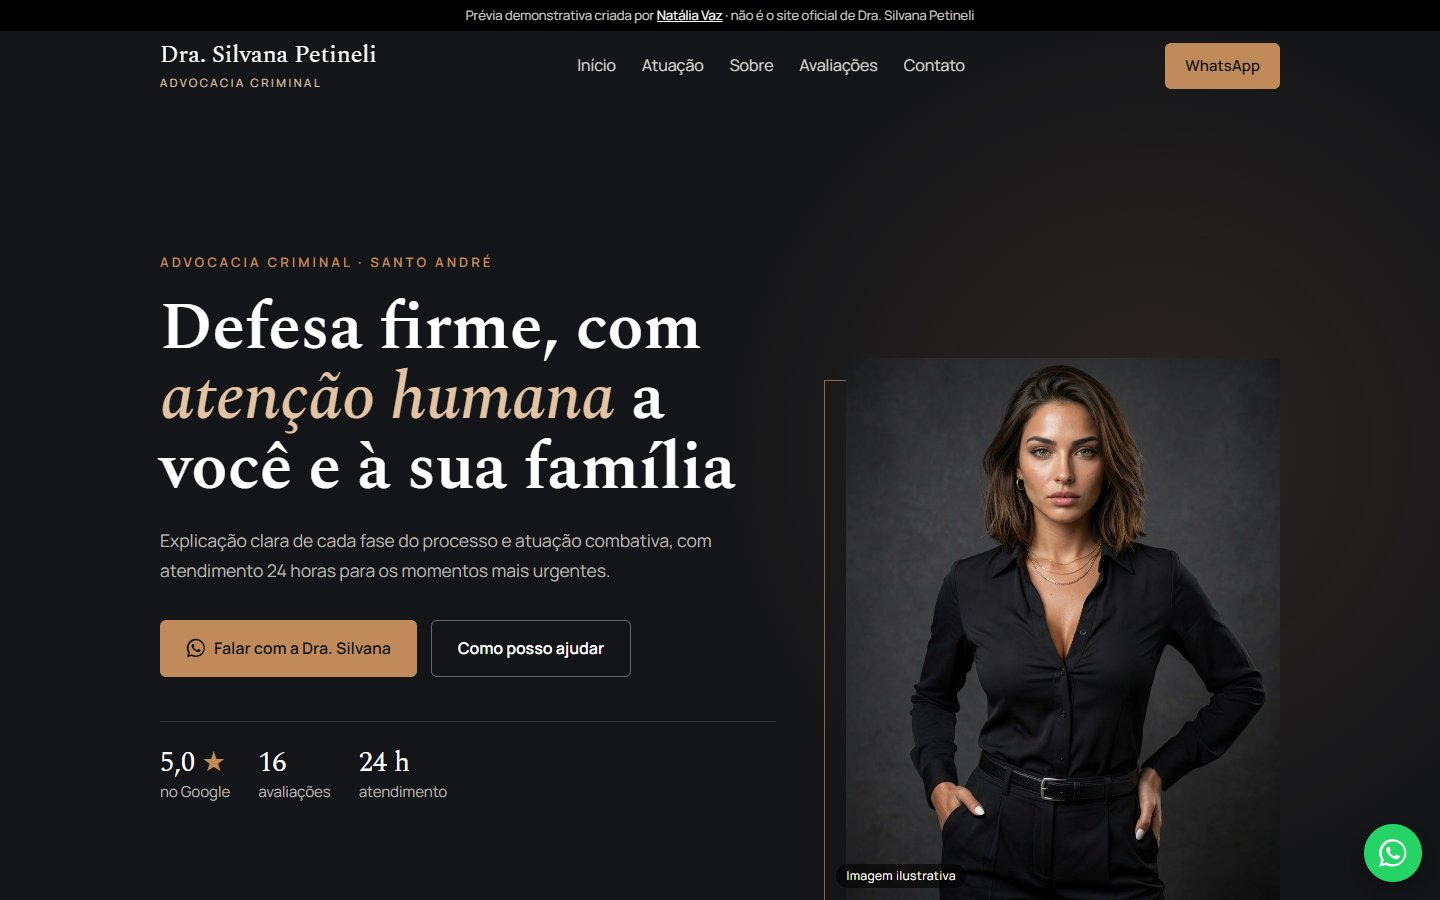
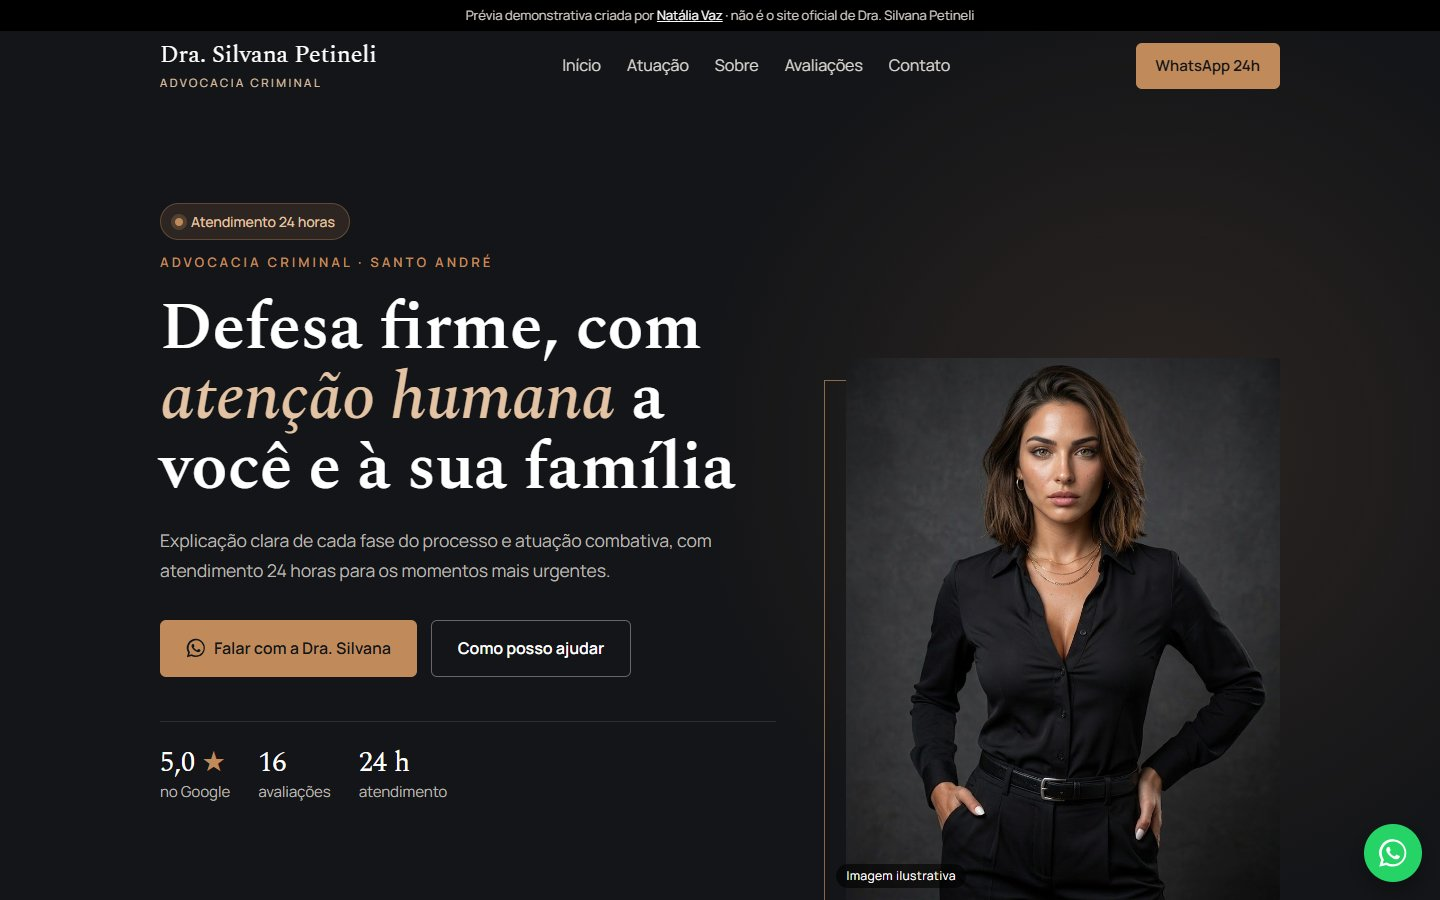
silvana-petineli: botão WhatsApp 24h e selo de atendimento 24 horas

Changed region(s): [[0.375, 0.0622, 0.6875, 0.0933], [0.0938, 0.2178, 0.25, 0.28], [0.7812, 0.0311, 0.875, 0.1244]]

diff --git a/silvana-petineli/index.html b/silvana-petineli/index.html
@@ -250,6 +250,8 @@ html{--gap-secao:clamp(64px,8vw,96px)}
 .hero h1,.head h2,.about h2,.card h3,.info h3{font-weight:600}
 .hero h1 i{font-weight:500}
 .hero{min-height:100vh;display:flex;align-items:flex-end}
+.h24{display:inline-flex;align-items:center;gap:8px;background:color-mix(in srgb,var(--accent) 14%,transparent);color:var(--accent-soft);border:1px solid color-mix(in srgb,var(--accent) 35%,transparent);border-radius:30px;padding:6px 14px;font-size:14px;font-weight:500;margin-bottom:6px}
+.h24 i{width:8px;height:8px;border-radius:50%;background:var(--accent);box-shadow:0 0 0 4px color-mix(in srgb,var(--accent) 25%,transparent)}
 .hero-photo{padding:0 0 0 22px}
 .hero-photo::before{content:"";position:absolute;left:0;top:22px;right:22px;bottom:-1px;border:1px solid color-mix(in srgb,var(--accent) 70%,transparent);border-bottom:0}
 .hero-photo img{position:relative;border-radius:2px;aspect-ratio:4/5;object-position:50% 15%}
@@ -311,7 +313,7 @@ html{--gap-secao:clamp(64px,8vw,96px)}
       <li><a href="#contato">Contato</a></li>
     </ul>
     <div class="nav-right">
-      <a class="btn sm" href="https://wa.me/5511965890244?text=Ol%C3%A1%2C%20Dra.%20Silvana%21%20Vi%20o%20seu%20site%20e%20preciso%20de%20uma%20orienta%C3%A7%C3%A3o." target="_blank" rel="noopener">WhatsApp</a>
+      <a class="btn sm" href="https://wa.me/5511965890244?text=Ol%C3%A1%2C%20Dra.%20Silvana%21%20Vi%20o%20seu%20site%20e%20preciso%20de%20uma%20orienta%C3%A7%C3%A3o." target="_blank" rel="noopener">WhatsApp 24h</a>
       <button class="burger" id="burger" aria-label="Abrir menu" aria-expanded="false" aria-controls="menu"><span></span></button>
     </div>
   </div>
@@ -320,6 +322,7 @@ html{--gap-secao:clamp(64px,8vw,96px)}
 <header class="hero" id="inicio">
   <div class="wrap">
     <div class="hero-text reveal">
+      <span class="h24"><i></i>Atendimento 24 horas</span><br>
       <span class="kicker">Advocacia criminal · Santo André</span>
       <h1>Defesa firme, com <i>atenção humana</i> a você e à sua família</h1>
       <p>Explicação clara de cada fase do processo e atuação combativa, com atendimento 24 horas para os momentos mais urgentes.</p>
